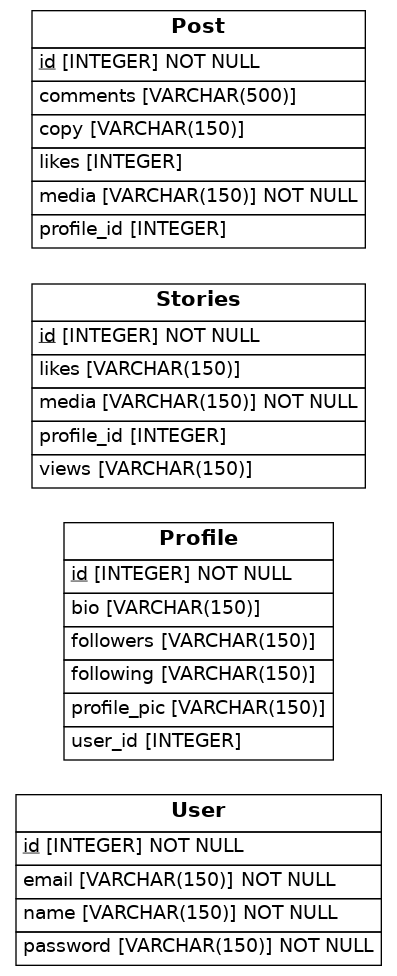
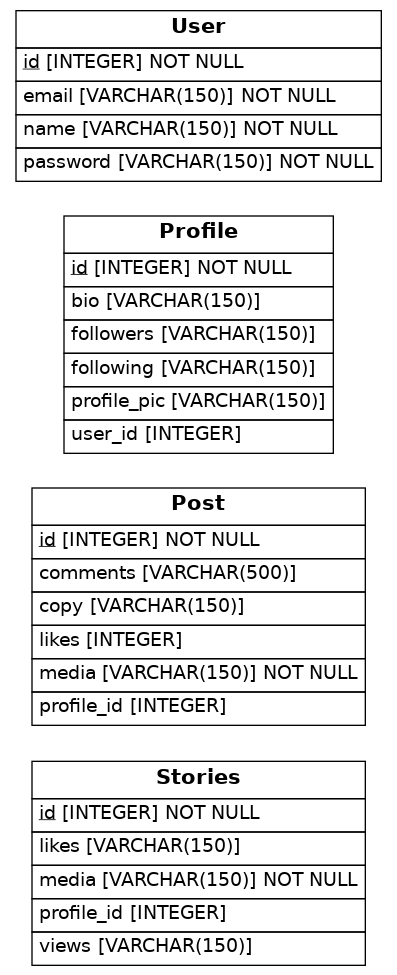
updated the relationship

Changed region(s): [[0.0302, 0.0, 0.9673, 1.0]]

diff --git a/src/models.py b/src/models.py
@@ -7,23 +7,6 @@ from eralchemy2 import render_er
 
 Base = declarative_base()
 
-class User(Base):
-    __tablename__ = 'User'
-    id = Column(Integer, primary_key = True)
-    name = Column(String(150), nullable = False)
-    email = Column(String(150), nullable = False)
-    password = Column(String(150), nullable = False)
-
-class Profile(Base):
-    __tablename__ = 'Profile'
-    id = Column(Integer, primary_key = True)
-    profile_pic = Column(String(150))
-    bio = Column(String(150))
-    followers = Column(String(150))
-    following = Column(String(150))
-    user_id = Column(Integer, ForeignKey('user.id'))
-    user = relationship(User)
-
 class Stories(Base):
     __tablename__ = 'Stories'
     id = Column(Integer, primary_key = True)
@@ -31,7 +14,6 @@ class Stories(Base):
     views = Column(String(150))
     likes = Column(String(150))
     profile_id = Column(Integer, ForeignKey('profile.id'))
-    profile = relationship(Profile)
 
 class Post(Base):
     __tablename__ = 'Post'
@@ -41,10 +23,29 @@ class Post(Base):
     likes = Column(Integer)
     comments = Column(String(500))
     profile_id = Column(Integer, ForeignKey('profile.id'))
-    profile = relationship(Profile)
+
+class Profile(Base):
+    __tablename__ = 'Profile'
+    id = Column(Integer, primary_key = True)
+    profile_pic = Column(String(150))
+    bio = Column(String(150))
+    followers = Column(String(150))
+    following = Column(String(150))
+    user_id = Column(Integer, ForeignKey('user.id'))
+    stories = relationship(Stories)
+    post = relationship(Post)
+
+class User(Base):
+    __tablename__ = 'User'
+    id = Column(Integer, primary_key = True)
+    name = Column(String(150), nullable = False)
+    email = Column(String(150), nullable = False)
+    password = Column(String(150), nullable = False)
+    profile = relationship(Profile)    
     
-    def to_dict(self):
-        return {}
+    
+def to_dict(self):
+    return {}
 
 ## Draw from SQLAlchemy base
 try:
